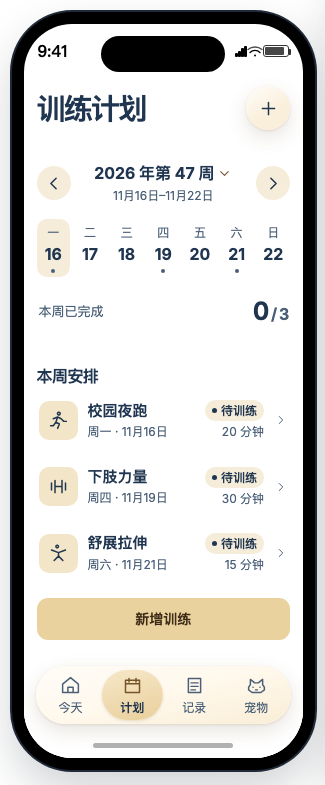
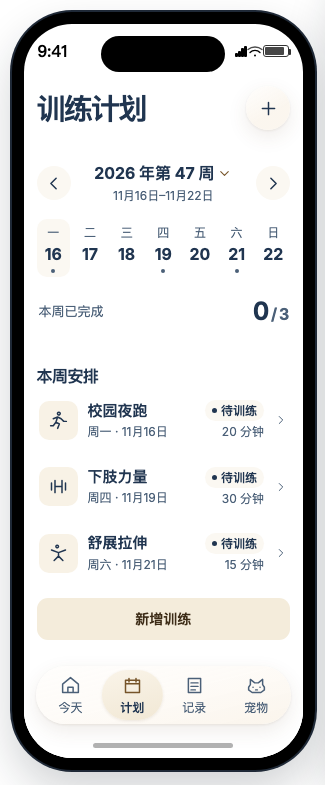
Lighten controls to a near-white beige

diff --git a/design-demos/ios-prototype.html b/design-demos/ios-prototype.html
@@ -394,19 +394,20 @@ a { color: inherit; }
   --board-line: #dfd1b7;
   --surface: #fff;
   --layer: #fff;
-  --wash: #f5edda;
+  --wash: #fbf8f2;
   --ink: #203550;
   --muted: #4b6078;
-  --line: #e7d8be;
-  --accent: #ead29e;
+  --line: #eee6d7;
+  --accent: #f4ecdb;
   --on-accent: #3d2c17;
   --accent-ink: #765429;
   --focus: #805c31;
-  --activity: #f3e5c7;
+  --activity: #f8f2e6;
+  --hint-bg: #faf5e9;
   --empty-heart: #839ab5;
   --section-gap: 29px;
-  --glass-tint: #fff7e8e0;
-  --glass-shadow: 0 7px 20px #65482426, 0 1px 3px #62442121;
+  --glass-tint: #fefbf6eb;
+  --glass-shadow: 0 7px 20px #6548241a, 0 1px 3px #62442116;
   --glass-ease: cubic-bezier(.2, .75, .25, 1);
 }
 
@@ -438,7 +439,7 @@ a { color: inherit; }
 .week-trigger strong { display: flex; gap: 3px; align-items: center; font-size: 16px; }
 .week-trigger svg { transform: rotate(90deg); color: var(--accent-ink); }
 .week-trigger span { font-size: 12px; color: var(--muted); }
-[data-glass] .day[aria-pressed="true"] { background: #ead29e; }
+[data-glass] .day[aria-pressed="true"] { background: var(--accent); }
 [data-glass] .list-row { padding-block: 13px; gap: 10px; border-radius: 10px; }
 [data-glass] :is(.sheet dl div, .choice) { padding-block: 11px; }
 [data-glass] .app-scroll {
@@ -479,11 +480,11 @@ a { color: inherit; }
 [data-glass] .round {
   width: 44px;
   height: 44px;
-  background-image: linear-gradient(150deg, #ffffffc4, #ebd5a944 62%);
+  background-image: linear-gradient(150deg, #ffffffc4, #f2e7d644 62%);
   transition: transform 180ms var(--glass-ease), box-shadow 180ms var(--glass-ease);
 }
 [data-glass] .round:hover {
-  box-shadow: 0 5px 13px #65482432;
+  box-shadow: 0 5px 13px #65482424;
 }
 [data-glass] .round:active { transform: scale(.93); }
 [data-glass] .week-heading .round {
@@ -503,7 +504,7 @@ a { color: inherit; }
   min-height: 58px;
   border-radius: 40px;
   isolation: isolate;
-  background-image: linear-gradient(166deg, #ffffffa6, #ffffff12 49%, #ead29e49);
+  background-image: linear-gradient(166deg, #ffffffa6, #ffffff12 49%, #f1e4cf49);
 }
 [data-glass] .tabbar::before {
   content: "";
@@ -512,8 +513,8 @@ a { color: inherit; }
   width: calc((100% - 8px) / 4);
   border-radius: 32px;
   pointer-events: none;
-  background: linear-gradient(165deg, #f5e6c5ed, #e8cc95e8);
-  box-shadow: 0 1px 3px #65482427;
+  background: linear-gradient(165deg, #f9f3e7ed, #f1e7d3ed);
+  box-shadow: 0 1px 3px #6548241c;
   transform: translateX(calc(var(--tab-index, 0) * 100%));
   transition: transform 360ms var(--glass-ease);
 }
@@ -633,7 +634,7 @@ a { color: inherit; }
   padding: 0;
 }
 .habitat-entry-status { display: flex; align-items: center; gap: 10px; font-size: 13px; font-weight: 680; }
-[data-glass] .growth-bar i { background: #ad8148; }
+[data-glass] .growth-bar i { background: #c4ac83; }
 .habitat-entry-header .growth {
   width: 180px;
   margin-top: 11px;
@@ -668,7 +669,7 @@ a { color: inherit; }
 }
 .pet-scene-panel h3 { font-size: 16px; letter-spacing: -.035em; }
 .pet-scene-panel .growth { padding: 7px 0; }
-.pet-scene-panel .growth-bar { background-color: #eee0c4; }
+.pet-scene-panel .growth-bar { background-color: #f0e8db; }
 .pet-scene-panel .pet-options { margin: 5px 0; }
 .pet-scene-panel .pet-options .empty-copy { padding-block: 1px; font-size: 13px; }
 .pet-scene-panel .list-row { min-height: 50px; padding: 7px 2px; }
@@ -686,7 +687,7 @@ a { color: inherit; }
   white-space: nowrap;
   border: 0;
   border-radius: 999px;
-  background: #fcf2ddeb;
+  background: #fdf9f0f5;
   color: var(--ink);
   box-shadow: var(--glass-shadow);
   font-size: 14px;
@@ -762,14 +763,13 @@ a { color: inherit; }
   border: 0;
   border-radius: 3px;
 }
-.heat-0 { background: #f5eee0; }
-.heat-1 { background: #eadab6; }
-.heat-2 { background: #cda974; }
-.heat-3 { background: #986c3c; }
+.heat-0 { background: #faf8f3; }
+.heat-1 { background: #f1ebde; }
+.heat-2 { background: #e8dac0; }
+.heat-3 { background: #ceba93; }
 .heat-future { visibility: hidden; }
 button.heat-cell:hover { filter: brightness(.9); }
 button.heat-cell[aria-pressed="true"] { background-image: radial-gradient(circle, var(--ink) 1.6px, transparent 2px); }
-button.heat-3[aria-pressed="true"] { background-image: radial-gradient(circle, #fff 1.6px, transparent 2px); }
 button.heat-cell:focus-visible { outline: 2px solid var(--focus); outline-offset: 1px; }
 .heatmap-footer { min-height: 36px; }
 .heatmap-footer .text-button { min-height: 32px; font-size: 12px; padding-inline: 4px; }
@@ -810,7 +810,7 @@ button.heat-cell:focus-visible { outline: 2px solid var(--focus); outline-offset
     -webkit-backdrop-filter: none;
     backdrop-filter: none;
   }
-  [data-glass] .tabbar::before { background: #efdbaf; }
+  [data-glass] .tabbar::before { background: var(--accent); }
 }
 @media (prefers-reduced-motion: reduce) {
   [data-glass] .tabbar button:active, [data-glass] .round:active { transform: none; }

diff --git a/design-demos/src/glass.css b/design-demos/src/glass.css
@@ -10,19 +10,20 @@
   --board-line: #dfd1b7;
   --surface: #fff;
   --layer: #fff;
-  --wash: #f5edda;
+  --wash: #fbf8f2;
   --ink: #203550;
   --muted: #4b6078;
-  --line: #e7d8be;
-  --accent: #ead29e;
+  --line: #eee6d7;
+  --accent: #f4ecdb;
   --on-accent: #3d2c17;
   --accent-ink: #765429;
   --focus: #805c31;
-  --activity: #f3e5c7;
+  --activity: #f8f2e6;
+  --hint-bg: #faf5e9;
   --empty-heart: #839ab5;
   --section-gap: 29px;
-  --glass-tint: #fff7e8e0;
-  --glass-shadow: 0 7px 20px #65482426, 0 1px 3px #62442121;
+  --glass-tint: #fefbf6eb;
+  --glass-shadow: 0 7px 20px #6548241a, 0 1px 3px #62442116;
   --glass-ease: cubic-bezier(.2, .75, .25, 1);
 }
 
@@ -54,7 +55,7 @@
 .week-trigger strong { display: flex; gap: 3px; align-items: center; font-size: 16px; }
 .week-trigger svg { transform: rotate(90deg); color: var(--accent-ink); }
 .week-trigger span { font-size: 12px; color: var(--muted); }
-[data-glass] .day[aria-pressed="true"] { background: #ead29e; }
+[data-glass] .day[aria-pressed="true"] { background: var(--accent); }
 [data-glass] .list-row { padding-block: 13px; gap: 10px; border-radius: 10px; }
 [data-glass] :is(.sheet dl div, .choice) { padding-block: 11px; }
 [data-glass] .app-scroll {
@@ -95,11 +96,11 @@
 [data-glass] .round {
   width: 44px;
   height: 44px;
-  background-image: linear-gradient(150deg, #ffffffc4, #ebd5a944 62%);
+  background-image: linear-gradient(150deg, #ffffffc4, #f2e7d644 62%);
   transition: transform 180ms var(--glass-ease), box-shadow 180ms var(--glass-ease);
 }
 [data-glass] .round:hover {
-  box-shadow: 0 5px 13px #65482432;
+  box-shadow: 0 5px 13px #65482424;
 }
 [data-glass] .round:active { transform: scale(.93); }
 [data-glass] .week-heading .round {
@@ -119,7 +120,7 @@
   min-height: 58px;
   border-radius: 40px;
   isolation: isolate;
-  background-image: linear-gradient(166deg, #ffffffa6, #ffffff12 49%, #ead29e49);
+  background-image: linear-gradient(166deg, #ffffffa6, #ffffff12 49%, #f1e4cf49);
 }
 [data-glass] .tabbar::before {
   content: "";
@@ -128,8 +129,8 @@
   width: calc((100% - 8px) / 4);
   border-radius: 32px;
   pointer-events: none;
-  background: linear-gradient(165deg, #f5e6c5ed, #e8cc95e8);
-  box-shadow: 0 1px 3px #65482427;
+  background: linear-gradient(165deg, #f9f3e7ed, #f1e7d3ed);
+  box-shadow: 0 1px 3px #6548241c;
   transform: translateX(calc(var(--tab-index, 0) * 100%));
   transition: transform 360ms var(--glass-ease);
 }
@@ -249,7 +250,7 @@
   padding: 0;
 }
 .habitat-entry-status { display: flex; align-items: center; gap: 10px; font-size: 13px; font-weight: 680; }
-[data-glass] .growth-bar i { background: #ad8148; }
+[data-glass] .growth-bar i { background: #c4ac83; }
 .habitat-entry-header .growth {
   width: 180px;
   margin-top: 11px;
@@ -284,7 +285,7 @@
 }
 .pet-scene-panel h3 { font-size: 16px; letter-spacing: -.035em; }
 .pet-scene-panel .growth { padding: 7px 0; }
-.pet-scene-panel .growth-bar { background-color: #eee0c4; }
+.pet-scene-panel .growth-bar { background-color: #f0e8db; }
 .pet-scene-panel .pet-options { margin: 5px 0; }
 .pet-scene-panel .pet-options .empty-copy { padding-block: 1px; font-size: 13px; }
 .pet-scene-panel .list-row { min-height: 50px; padding: 7px 2px; }
@@ -302,7 +303,7 @@
   white-space: nowrap;
   border: 0;
   border-radius: 999px;
-  background: #fcf2ddeb;
+  background: #fdf9f0f5;
   color: var(--ink);
   box-shadow: var(--glass-shadow);
   font-size: 14px;
@@ -378,14 +379,13 @@
   border: 0;
   border-radius: 3px;
 }
-.heat-0 { background: #f5eee0; }
-.heat-1 { background: #eadab6; }
-.heat-2 { background: #cda974; }
-.heat-3 { background: #986c3c; }
+.heat-0 { background: #faf8f3; }
+.heat-1 { background: #f1ebde; }
+.heat-2 { background: #e8dac0; }
+.heat-3 { background: #ceba93; }
 .heat-future { visibility: hidden; }
 button.heat-cell:hover { filter: brightness(.9); }
 button.heat-cell[aria-pressed="true"] { background-image: radial-gradient(circle, var(--ink) 1.6px, transparent 2px); }
-button.heat-3[aria-pressed="true"] { background-image: radial-gradient(circle, #fff 1.6px, transparent 2px); }
 button.heat-cell:focus-visible { outline: 2px solid var(--focus); outline-offset: 1px; }
 .heatmap-footer { min-height: 36px; }
 .heatmap-footer .text-button { min-height: 32px; font-size: 12px; padding-inline: 4px; }
@@ -426,7 +426,7 @@ button.heat-cell:focus-visible { outline: 2px solid var(--focus); outline-offset
     -webkit-backdrop-filter: none;
     backdrop-filter: none;
   }
-  [data-glass] .tabbar::before { background: #efdbaf; }
+  [data-glass] .tabbar::before { background: var(--accent); }
 }
 @media (prefers-reduced-motion: reduce) {
   [data-glass] .tabbar button:active, [data-glass] .round:active { transform: none; }
